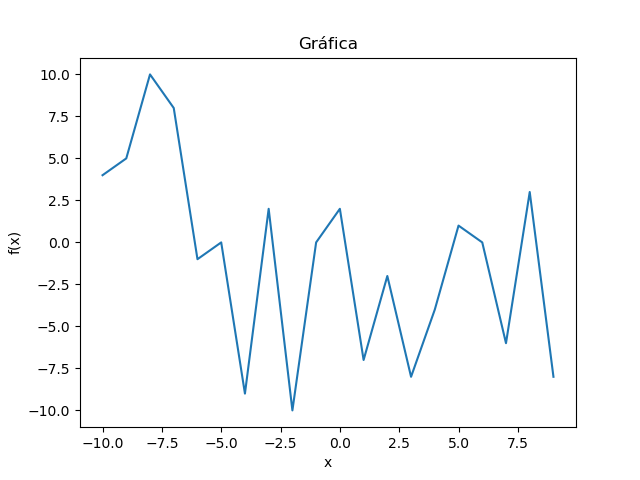
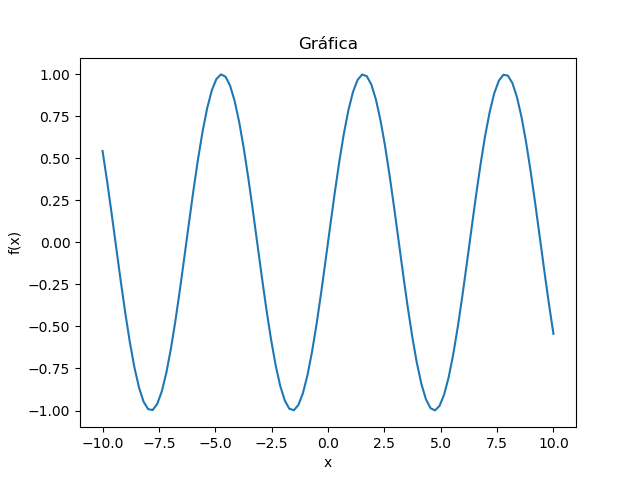
plot f(x)

diff --git a/chops.py b/chops.py
@@ -4,10 +4,12 @@ import asyncio
 import os
 import giphy_client
 import json
+import numpy
 from discord.ext import commands
 from dotenv import load_dotenv
 from giphy_client.rest import ApiException
 import matplotlib.pyplot as plt
+from math import exp, sin, cos
 
 
 config = json.load(open('config.json'))
@@ -22,10 +24,10 @@ bot = commands.Bot(command_prefix=commands.when_mentioned_or('-chops ', '-'))
 giphy_api_instance = giphy_client.DefaultApi()
 
 
-def get_random_plot():
-    x = [i for i in range(-10, 10)]
-    y = [random.randint(-10, 10) for i in range(-10, 10)]
-    plt.plot(x, y)
+def get_plot(msg):
+    t = numpy.linspace(-10, 10, num=100)
+    y = eval('[{} for x in t]'.format(msg))
+    plt.plot(t, y)
     plt.ylabel('f(x)')
     plt.xlabel('x')
     plt.title('Gráfica')
@@ -37,8 +39,8 @@ def get_random_plot():
     return File
 
 @bot.command(name='plot')
-async def plotCmd(ctx):
-    file = get_random_plot()
+async def plotCmd(ctx, *, msg="sin(x)"):
+    file = get_plot(msg)
     await ctx.send("", file=file)
     file.close()
 
